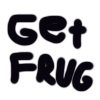
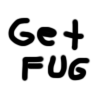
update

diff --git a/src/App.jsx b/src/App.jsx
@@ -7,8 +7,8 @@ function App() {
   const [showPfpBuilder, setShowPfpBuilder] = useState(false)
   const [bgFrame, setBgFrame] = useState(0)
 
-  // Background animation: frug1 → frug2 → frug3 → frug2 → loop
-  const bgFrames = ['/frug1.png', '/frug2.png', '/frug3.png', '/frug2.png']
+  // Background animation: fug1 → fug2 → fug3 → fug2 → loop
+  const bgFrames = ['/fug1.png', '/fug2.png', '/fug3.png', '/fug2.png']
 
   useEffect(() => {
     const interval = setInterval(() => {
@@ -33,7 +33,7 @@ function App() {
       {/* Hero Section */}
       <div className="container">
 
-        {/* Background Image - Animated frug loop */}
+        {/* Background Image - Animated fug loop */}
         <div
           className="background"
           style={{
@@ -43,18 +43,18 @@ function App() {
 
         {/* Header - Menu top left */}
         <header className="header">
-          <img src="/frug-icon.png" alt="Frug" className="menu-icon" />
+          <img src="/fug-icon.png" alt="Fug" className="menu-icon" />
           <nav className="nav">
             <a href="#home" onClick={scrollToTop} className="nav-img-link">
               <img src="/nav-home.png" alt="Home" />
             </a>
             <a href="#about" onClick={openAboutModal} className="nav-img-link">
-              <img src="/nav-about.png" alt="About Frug" />
+              <img src="/nav-about.png" alt="About Fug" />
             </a>
             <a href="#pfp" onClick={(e) => { e.preventDefault(); setShowPfpBuilder(true); }} className="nav-img-link">
-              <img src="/nav-pfp.png" alt="Get Ur Frug" />
+              <img src="/nav-pfp.png" alt="Get Ur Fug" />
             </a>
-            <a href="https://x.com/watdafrug" target="_blank" rel="noopener noreferrer" className="nav-img-link">
+            <a href="https://x.com/fugdafrog" target="_blank" rel="noopener noreferrer" className="nav-img-link">
               <img src="/nav-x.png" alt="X" />
             </a>
           </nav>
@@ -63,8 +63,8 @@ function App() {
         {/* Footer on Hero */}
         <footer className="hero-footer">
           <p>
-            © 2026 FRUG. ALL RIGHTS RESERVED.
-            <a href="https://x.com/watdafrug" target="_blank" rel="noopener noreferrer" className="x-icon">
+            © 2026 FUG. ALL RIGHTS RESERVED.
+            <a href="https://x.com/fugdafrog" target="_blank" rel="noopener noreferrer" className="x-icon">
               <svg viewBox="0 0 24 24" width="28" height="28">
                 <rect width="24" height="24" rx="4" fill="black"/>
                 <path d="M16.5 5h2.4l-5.2 5.9 6.1 8.1h-4.7l-3.8-4.9-4.3 4.9H4.6l5.6-6.4L4.3 5h4.8l3.4 4.5L16.5 5zm-.9 12.6h1.3L8.5 6.3H7.1l8.5 11.3z" fill="white"/>
@@ -85,11 +85,11 @@ function App() {
                 <button className="cult-btn minimize"></button>
                 <button className="cult-btn maximize"></button>
               </div>
-              <span className="cult-title">FRUG</span>
+              <span className="cult-title">FUG</span>
             </div>
 
             <div className="cult-content">
-              <h1 className="cult-heading">WHY FRUG?</h1>
+              <h1 className="cult-heading">WHY FUG?</h1>
 
               <div className="cult-story">
                 <p>
@@ -99,20 +99,20 @@ function App() {
                   But I always had this character I kept drawing - a frog. Kind of a broke, weird looking frog. I liked this guy so much. I don't know if anyone else would feel the same way about him, but I wanted to give it one more shot.
                 </p>
                 <p>
-                  So I drew my frug and decided to just give it away to everyone. I figured if people like him, maybe we could build a community around frug - a cult even. That's why everything is open source. You can grab the files from the website, make your own frug picture, and if you want to draw your own version, there's simple tools right here to do it.
+                  So I drew my fug and decided to just give it away to everyone. I figured if people like him, maybe we could build a community around fug - a cult even. That's why everything is open source. You can grab the files from the website, make your own fug picture, and if you want to draw your own version, there's simple tools right here to do it.
                 </p>
                 <p>
-                  I'm not gonna pretend I have some big master plan. I just want people to not forget frug. I want everyone to remember him. That's why I made him.
+                  I'm not gonna pretend I have some big master plan. I just want people to not forget fug. I want everyone to remember him. That's why I made him.
                 </p>
                 <p>
-                  I don't have much more to say. Just hope everyone likes frug like I do.
+                  I don't have much more to say. Just hope everyone likes fug like I do.
                 </p>
               </div>
 
               <div className="cult-footer">
-                <p className="cult-slogan">LONG LIVE FRUG</p>
+                <p className="cult-slogan">LONG LIVE FUG</p>
                 <a
-                  href="https://x.com/watdafrug"
+                  href="https://x.com/fugdafrog"
                   target="_blank"
                   rel="noopener noreferrer"
                   className="cult-x-link"
@@ -121,7 +121,7 @@ function App() {
                     <rect width="24" height="24" rx="4" fill="black"/>
                     <path d="M16.5 5h2.4l-5.2 5.9 6.1 8.1h-4.7l-3.8-4.9-4.3 4.9H4.6l5.6-6.4L4.3 5h4.8l3.4 4.5L16.5 5zm-.9 12.6h1.3L8.5 6.3H7.1l8.5 11.3z" fill="white"/>
                   </svg>
-                  Visit The Frug
+                  Visit The Fug
                 </a>
               </div>
             </div>

diff --git a/src/PfpBuilder.jsx b/src/PfpBuilder.jsx
@@ -18,7 +18,7 @@ function PfpBuilder({ onClose }) {
   })
 
   const [activeTab, setActiveTab] = useState('bg')
-  const [frugName, setFrugName] = useState('')
+  const [fugName, setFrugName] = useState('')
   const [isGenerating, setIsGenerating] = useState(false)
   const [customBodyColor, setCustomBodyColor] = useState('#ff6b6b')
   const [customBodyColor2, setCustomBodyColor2] = useState('#feca57')
@@ -590,7 +590,7 @@ function PfpBuilder({ onClose }) {
 
 
       const link = document.createElement('a')
-      link.download = 'my-frug.png'
+      link.download = 'my-fug.png'
       link.href = canvas.toDataURL('image/png')
       link.click()
     }
@@ -608,11 +608,11 @@ function PfpBuilder({ onClose }) {
             <button className="terminal-btn minimize"></button>
             <button className="terminal-btn maximize"></button>
           </div>
-          <span className="terminal-title">FRUG PFP Builder</span>
+          <span className="terminal-title">FUG PFP Builder</span>
         </div>
 
         <div className="terminal-content">
-          <h1 className="pfp-builder-title">GET UR FRUG</h1>
+          <h1 className="pfp-builder-title">GET UR FUG</h1>
 
         <div className="pfp-builder-content">
           {/* Preview */}
@@ -699,9 +699,9 @@ function PfpBuilder({ onClose }) {
             </div>
 
             {/* Generated Name Display */}
-            {frugName && (
-              <div className="frug-name-display">
-                <span>{frugName}</span>
+            {fugName && (
+              <div className="fug-name-display">
+                <span>{fugName}</span>
               </div>
             )}
 
@@ -715,7 +715,7 @@ function PfpBuilder({ onClose }) {
               onClick={generatePogName}
               disabled={isGenerating}
             >
-              {isGenerating ? 'ASKING...' : 'ASK PROPHET FRUG A NAME'}
+              {isGenerating ? 'ASKING...' : 'ASK PROPHET FUG A NAME'}
             </button>
           </div>
 

diff --git a/index.html b/index.html
@@ -2,9 +2,9 @@
 <html lang="en">
   <head>
     <meta charset="UTF-8" />
-    <link rel="icon" type="image/png" href="/frug-icon.png" />
+    <link rel="icon" type="image/png" href="/fug-icon.png" />
     <meta name="viewport" content="width=device-width, initial-scale=1.0" />
-    <title>FRUG</title>
+    <title>FUG</title>
   </head>
   <body>
     <div id="root"></div>

diff --git a/src/PfpBuilder.css b/src/PfpBuilder.css
@@ -177,7 +177,7 @@
 }
 
 /* Name Display */
-.frug-name-display {
+.fug-name-display {
   margin-top: 6px;
   padding: 4px 8px;
   background: #fff;
@@ -186,7 +186,7 @@
   text-align: center;
 }
 
-.frug-name-display span {
+.fug-name-display span {
   font-size: 18px;
   font-weight: bold;
   letter-spacing: 2px;
